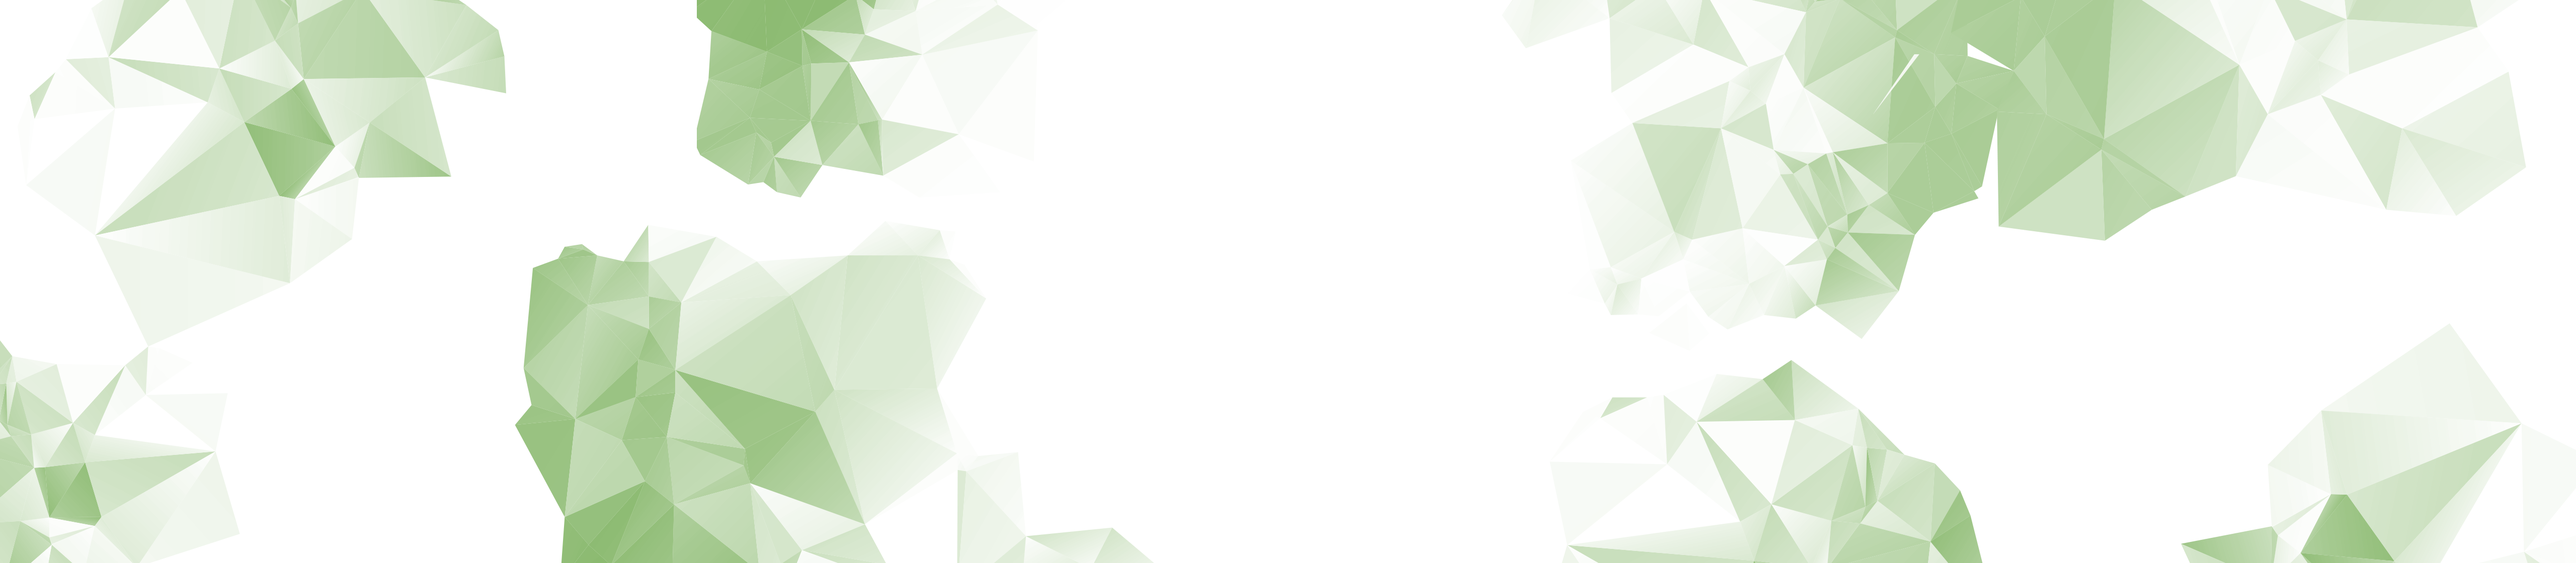
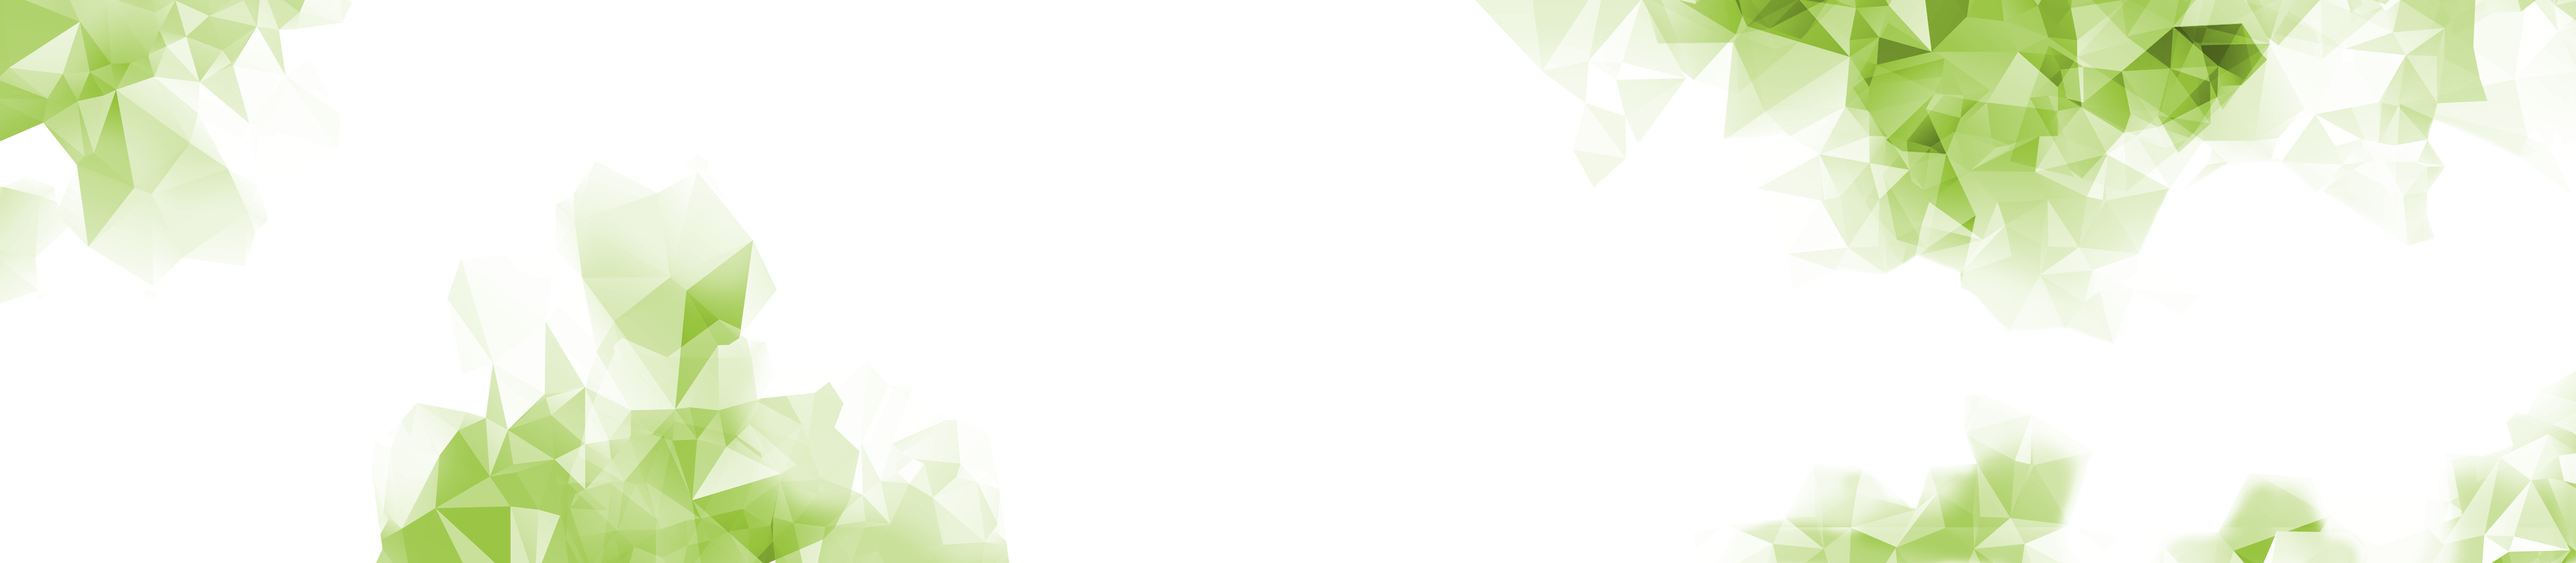
画像の入れ替え

diff --git a/dist/build.js b/dist/build.js
@@ -1414,7 +1414,7 @@ var Footer = function (_React$Component) {
     value: function render() {
       var root = this.props.route.global.documentRoot;
 
-      return _react2.default.createElement('footer', { id: 'Footer' }, _react2.default.createElement('div', { id: 'footerLink' }, _react2.default.createElement('nav', { className: 'lf-contents' }, _react2.default.createElement('div', null, _react2.default.createElement('p', null, _react2.default.createElement('i', { className: 'fa fa-plus-square' }), _react2.default.createElement(_reactRouter.Link, { to: '/cleaning#h00' }, '清掃')), _react2.default.createElement('ul', null, _react2.default.createElement('li', null, _react2.default.createElement(_reactRouter.Link, { to: '/cleaning_detail#h01' }, 'サービス案内')), _react2.default.createElement('li', null, _react2.default.createElement(_reactRouter.Link, { to: '/cleaning_detail#h02' }, '清掃業務管理')), _react2.default.createElement('li', null, _react2.default.createElement(_reactRouter.Link, { to: '/cleaning_detail#h03' }, '特徴')), _react2.default.createElement('li', null, _react2.default.createElement(_reactRouter.Link, { to: '/cleaning_detail#h04' }, 'サポート')))), _react2.default.createElement('div', null, _react2.default.createElement('p', null, _react2.default.createElement('i', { className: 'fa fa-plus-square' }), _react2.default.createElement(_reactRouter.Link, { to: '/building#h00' }, 'ビル管理')), _react2.default.createElement('ul', null, _react2.default.createElement('li', null, _react2.default.createElement(_reactRouter.Link, { to: '/building_detail#h01' }, 'サービス案内')), _react2.default.createElement('li', null, _react2.default.createElement(_reactRouter.Link, { to: '/building_detail#h02' }, '取り組み')), _react2.default.createElement('li', null, _react2.default.createElement(_reactRouter.Link, { to: '/building_detail#h03' }, '特徴')), _react2.default.createElement('li', null, _react2.default.createElement(_reactRouter.Link, { to: '/building_detail#h04' }, 'サポート')))), _react2.default.createElement('div', null, _react2.default.createElement('p', null, _react2.default.createElement('i', { className: 'fa fa-plus-square' }), _react2.default.createElement(_reactRouter.Link, { to: '/mansion_detail#h00' }, 'マンション管理')), _react2.default.createElement('ul', null, _react2.default.createElement('li', null, _react2.default.createElement(_reactRouter.Link, { to: '/mansion_detail#h01' }, 'サービス案内')), _react2.default.createElement('li', null, _react2.default.createElement(_reactRouter.Link, { to: '/mansion_detail#h02' }, '取り組み')), _react2.default.createElement('li', null, _react2.default.createElement(_reactRouter.Link, { to: '/mansion_detail#h03' }, '特徴')), _react2.default.createElement('li', null, _react2.default.createElement(_reactRouter.Link, { to: '/mansion_detail#h04' }, 'サポート')))), _react2.default.createElement('div', null, _react2.default.createElement('p', null, _react2.default.createElement('i', { className: 'fa fa-plus-square' }), _react2.default.createElement(_reactRouter.Link, { to: '/driving#h00' }, '運行管理')), _react2.default.createElement('ul', null, _react2.default.createElement('li', null, _react2.default.createElement(_reactRouter.Link, { to: '/driving_detail#h01' }, 'サービス案内')), _react2.default.createElement('li', null, _react2.default.createElement(_reactRouter.Link, { to: '/driving_detail#h02' }, '導入事例')), _react2.default.createElement('li', null, _react2.default.createElement(_reactRouter.Link, { to: '/driving_detail#h03' }, '特徴')), _react2.default.createElement('li', null, _react2.default.createElement(_reactRouter.Link, { to: '/driving_detail#h04' }, '安全・安心・快適の取組')))), _react2.default.createElement('div', null, _react2.default.createElement('p', null, _react2.default.createElement('i', { className: 'fa fa-plus-square' }), _react2.default.createElement(_reactRouter.Link, { to: '/company#h00' }, '会社案内')), _react2.default.createElement('ul', null, _react2.default.createElement('li', null, _react2.default.createElement(_reactRouter.Link, { to: '/company#h01' }, '遠鉄アシストについて')), _react2.default.createElement('li', null, _react2.default.createElement(_reactRouter.Link, { to: '/company#h02' }, '社長メッセージ')), _react2.default.createElement('li', null, _react2.default.createElement(_reactRouter.Link, { to: '/company#h03' }, '会社概要')), _react2.default.createElement('li', null, _react2.default.createElement(_reactRouter.Link, { to: '/company#h04' }, '戦略事業')))), _react2.default.createElement('div', null, _react2.default.createElement('p', null, _react2.default.createElement('i', { className: 'fa fa-plus-square' }), 'その他'), _react2.default.createElement('ul', null, _react2.default.createElement('li', null, _react2.default.createElement(_reactRouter.Link, { to: '/works' }, 'お仕事を探す'))))), _react2.default.createElement('div', { className: 'lf-external' }, _react2.default.createElement('div', null, _react2.default.createElement('span', null, '公共事業リンク'), _react2.default.createElement('p', null, _react2.default.createElement('a', {
+      return _react2.default.createElement('footer', { id: 'Footer' }, _react2.default.createElement('div', { id: 'footerLink' }, _react2.default.createElement('nav', { className: 'lf-contents' }, _react2.default.createElement('div', null, _react2.default.createElement('p', null, _react2.default.createElement('i', { className: 'fa fa-plus-square' }), _react2.default.createElement(_reactRouter.Link, { to: '/cleaning#h00' }, '清掃')), _react2.default.createElement('ul', null, _react2.default.createElement('li', null, _react2.default.createElement(_reactRouter.Link, { to: '/cleaning_detail#h01' }, 'サービス案内')), _react2.default.createElement('li', null, _react2.default.createElement(_reactRouter.Link, { to: '/cleaning_detail#h02' }, '清掃業務管理')), _react2.default.createElement('li', null, _react2.default.createElement(_reactRouter.Link, { to: '/cleaning_detail#h03' }, '特徴')), _react2.default.createElement('li', null, _react2.default.createElement(_reactRouter.Link, { to: '/cleaning_detail#h04' }, 'サポート')))), _react2.default.createElement('div', null, _react2.default.createElement('p', null, _react2.default.createElement('i', { className: 'fa fa-plus-square' }), _react2.default.createElement(_reactRouter.Link, { to: '/building#h00' }, 'ビル管理')), _react2.default.createElement('ul', null, _react2.default.createElement('li', null, _react2.default.createElement(_reactRouter.Link, { to: '/building_detail#h01' }, 'サービス案内')), _react2.default.createElement('li', null, _react2.default.createElement(_reactRouter.Link, { to: '/building_detail#h02' }, '取り組み')), _react2.default.createElement('li', null, _react2.default.createElement(_reactRouter.Link, { to: '/building_detail#h03' }, '特徴')), _react2.default.createElement('li', null, _react2.default.createElement(_reactRouter.Link, { to: '/building_detail#h04' }, 'サポート')))), _react2.default.createElement('div', null, _react2.default.createElement('p', null, _react2.default.createElement('i', { className: 'fa fa-plus-square' }), _react2.default.createElement(_reactRouter.Link, { to: '/mansion_detail#h00' }, 'マンション管理')), _react2.default.createElement('ul', null, _react2.default.createElement('li', null, _react2.default.createElement(_reactRouter.Link, { to: '/mansion_detail#h01' }, 'サービス案内')), _react2.default.createElement('li', null, _react2.default.createElement(_reactRouter.Link, { to: '/mansion_detail#h02' }, '取り組み')), _react2.default.createElement('li', null, _react2.default.createElement(_reactRouter.Link, { to: '/mansion_detail#h03' }, '特徴')), _react2.default.createElement('li', null, _react2.default.createElement(_reactRouter.Link, { to: '/mansion_detail#h04' }, 'サポート')))), _react2.default.createElement('div', null, _react2.default.createElement('p', null, _react2.default.createElement('i', { className: 'fa fa-plus-square' }), _react2.default.createElement(_reactRouter.Link, { to: '/driving#h00' }, '運行管理')), _react2.default.createElement('ul', null, _react2.default.createElement('li', null, _react2.default.createElement(_reactRouter.Link, { to: '/driving_detail#h01' }, 'サービス案内')), _react2.default.createElement('li', null, _react2.default.createElement(_reactRouter.Link, { to: '/driving_detail#h02' }, '導入事例')), _react2.default.createElement('li', null, _react2.default.createElement(_reactRouter.Link, { to: '/driving_detail#h03' }, '特徴')), _react2.default.createElement('li', null, _react2.default.createElement(_reactRouter.Link, { to: '/driving_detail#h04' }, '安全・安心・快適の取組')))), _react2.default.createElement('div', null, _react2.default.createElement('p', null, _react2.default.createElement('i', { className: 'fa fa-plus-square' }), _react2.default.createElement(_reactRouter.Link, { to: '/company#h00' }, '会社案内')), _react2.default.createElement('ul', null, _react2.default.createElement('li', null, _react2.default.createElement(_reactRouter.Link, { to: '/company#h01' }, '遠鉄アシストについて')), _react2.default.createElement('li', null, _react2.default.createElement(_reactRouter.Link, { to: '/company#h02' }, '社長メッセージ')), _react2.default.createElement('li', null, _react2.default.createElement(_reactRouter.Link, { to: '/company#h03' }, '会社概要')), _react2.default.createElement('li', null, _react2.default.createElement(_reactRouter.Link, { to: '/company#h04' }, '戦略事業')))), _react2.default.createElement('div', null, _react2.default.createElement('p', null, _react2.default.createElement('i', { className: 'fa fa-plus-square' }), 'その他'), _react2.default.createElement('ul', null, _react2.default.createElement('li', null, _react2.default.createElement(_reactRouter.Link, { to: '/works' }, 'お仕事を探す')), _react2.default.createElement('li', null, _react2.default.createElement(_reactRouter.Link, { to: '/privacy' }, '個人情報取扱について'))))), _react2.default.createElement('div', { className: 'lf-external' }, _react2.default.createElement('div', null, _react2.default.createElement('span', null, '公共事業リンク'), _react2.default.createElement('p', null, _react2.default.createElement('a', {
         target: '_blank',
         href: 'http://www.entetsuassist-dms.com/hamamatsu-jyo/'
       }, _react2.default.createElement('img', {
@@ -7140,19 +7140,19 @@ var Works = function (_React$Component) {
         onClick: this.closeUp.bind(this)
       }, _react2.default.createElement('img', {
         src: IMG + 'time/banner01.png',
-        height: '120',
+        height: '135',
         alt: 'img'
       })), _react2.default.createElement('a', { href: '#',
         onClick: this.closeUp.bind(this)
       }, _react2.default.createElement('img', {
         src: IMG + 'time/banner02.png',
-        height: '120',
+        height: '135',
         alt: 'img'
       })), _react2.default.createElement('a', { href: '#',
         onClick: this.closeUp.bind(this)
       }, _react2.default.createElement('img', {
         src: IMG + 'time/banner03.png',
-        height: '120',
+        height: '135',
         alt: 'img'
       })), _react2.default.createElement('br', null), _react2.default.createElement('a', { href: '#',
         onClick: this.closeUp.bind(this)
@@ -7474,7 +7474,7 @@ var WorksDetail = function (_React$Component) {
         id: 'modal2',
         className: 'modal',
         onClick: this.disableModal2.bind(this)
-      }, _react2.default.createElement('div', null, _react2.default.createElement('h1', null, '応募内容のご確認'), _react2.default.createElement('div', null, '名前:  山田太郎', _react2.default.createElement('br', null), 'フリガナ: ヤマダタロウ', _react2.default.createElement('br', null), '電話番号: 012-333-4444', _react2.default.createElement('br', null), 'メールアドレス: info@example.com'), _react2.default.createElement('p', null, '弊社スタッフより、メールにて連絡させていただきます。', _react2.default.createElement('br', null), 'その際にご不明な点などお気軽にお問い合わせ下さい。', _react2.default.createElement('br', null), 'また、あわせて会員情報も登録されます。'), _react2.default.createElement('p', null, '以上の内容でお間違いなければ「メールにて連絡を希望する」を', _react2.default.createElement('br', null), 'クリックしてください。'), _react2.default.createElement('button', null, 'メールにて連絡を希望する'))));
+      }, _react2.default.createElement('div', null, _react2.default.createElement('h1', null, '応募内容のご確認'), _react2.default.createElement('div', null, '名前:  山田太郎', _react2.default.createElement('br', null), 'フリガナ: ヤマダタロウ', _react2.default.createElement('br', null), '電話番号: 012-333-4444', _react2.default.createElement('br', null), 'メールアドレス: info@example.com'), _react2.default.createElement('p', null, '弊社スタッフより、お仕事のご紹介や、', _react2.default.createElement('br', null), 'ご都合のご確認として、', _react2.default.createElement('br', null), 'メールにてご連絡させていただきます。', _react2.default.createElement('br', null), 'また、あわせて会員情報も登録されます。'), _react2.default.createElement('p', null, '以上の内容でお間違いなければ「メールにて連絡を希望する」を', _react2.default.createElement('br', null), 'クリックしてください。'), _react2.default.createElement('button', null, 'メールにて連絡を希望する'))));
     }
   }, {
     key: 'enableModal',

diff --git a/src/pages/front/Works.jsx b/src/pages/front/Works.jsx
@@ -137,7 +137,7 @@ export default class Works extends React.Component {
               >
                 <img
                   src={IMG + 'time/banner01.png'}
-                  height="120"
+                  height="135"
                   alt="img"
                   />
               </a>
@@ -147,7 +147,7 @@ export default class Works extends React.Component {
               >
                 <img
                   src={IMG + 'time/banner02.png'}
-                  height="120"
+                  height="135"
                   alt="img"
                   />
               </a>
@@ -157,7 +157,7 @@ export default class Works extends React.Component {
               >
                 <img
                   src={IMG + 'time/banner03.png'}
-                  height="120"
+                  height="135"
                   alt="img"
                   />
               </a>

diff --git a/src/pages/front/WorksDetail.jsx b/src/pages/front/WorksDetail.jsx
@@ -222,8 +222,9 @@ export default class WorksDetail extends React.Component {
             </div>
 
             <p>
-              弊社スタッフより、メールにて連絡させていただきます。<br />
-その際にご不明な点などお気軽にお問い合わせ下さい。<br />
+              弊社スタッフより、お仕事のご紹介や、<br />
+              ご都合のご確認として、<br />
+              メールにてご連絡させていただきます。<br />
 また、あわせて会員情報も登録されます。
             </p>
 

diff --git a/src/layouts/front/Footer.jsx b/src/layouts/front/Footer.jsx
@@ -183,6 +183,12 @@ export default class Footer extends React.Component {
                   お仕事を探す
                   </Link>
                   </li>
+
+                <li>
+                  <Link to="/privacy">
+                  個人情報取扱について
+                  </Link>
+                  </li>
               </ul>
             </div>
           </nav>

diff --git a/css/style.css b/css/style.css
@@ -7107,7 +7107,7 @@ div#badge {
     right: 0;
     text-align: center;
     vertical-align: middle;
-    background-image: url("../imgs/pages/top/home.png");
+    background-image: url("../imgs/pages/top/home.gif");
     background-size: auto 560px;
     background-position: center bottom;
     z-index: -10; }

diff --git a/sass/pages/front/_Home.sass b/sass/pages/front/_Home.sass
@@ -23,7 +23,7 @@ table
   right: 0
   text-align: center
   vertical-align: middle
-  background-image: url('../imgs/pages/top/home.png');
+  background-image: url('../imgs/pages/top/home.gif');
   background-size: auto 560px
   background-position: center bottom
   z-index: -10
